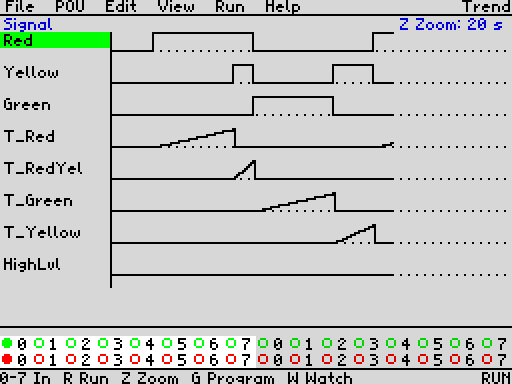
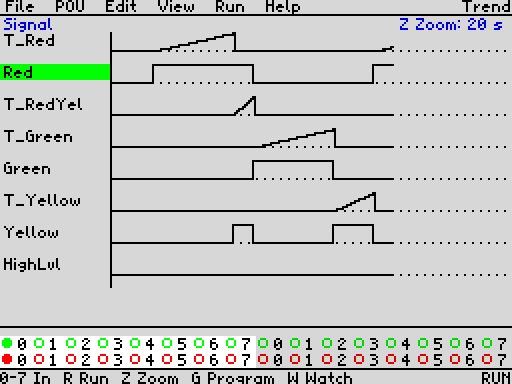
Demo watch list: each traffic light timer followed by its light
Claude-Session: https://claude.ai/code/session_01VKWfWeHqdVXUCm7FCj2M63

diff --git a/tools/docshots.py b/tools/docshots.py
@@ -42,7 +42,7 @@ SHOTS = [
     ("sim_il", IL + RUN + "k:0 w150"),
     ("sim_ld", LD + RUN + "k:4 w60"),
     ("sim_fbd", FBD + RUN + "k:B w5 k:0 w5 k:2 w60"),
-    ("sim_watch", FBD + RUN + "k:B w5 k:0 w5 k:2 w30 k:W w40 " + D + D + "k:F w40"),
+    ("sim_watch", FBD + RUN + "k:B w5 k:0 w5 k:2 w30 k:W w40 " + D * 4 + "k:F w40"),
     ("sim_trend", IL + "k:CS+SPACE w5 k:V w5 k:S w40 " + RUN + "k:G w20 k:0 w600"),
     ("xref", IL + D + "k:SS+X w60"),
     ("clip_mark", IL + D * 2 + "k:SS+A w10 " + D * 2 + "w10"),

diff --git a/docs/MANUAL.md b/docs/MANUAL.md
@@ -540,8 +540,8 @@ inputs and outputs:
 | DEMO_LD | pump with self-holding, fan run-on (TOF), alert memory (P / N contacts, set / reset), blinking lamp (2 x TP) | `4`-`7` | Q0.4-Q0.6 |
 | DEMO_FBD | inlet valve with nested gates and a 2 s run-on, overflow horn (RT, SR), service counter (CTU, after 3 fills) | byte 1: `B`, then `0`-`5` | Q1.0-Q1.2 |
 
-A symbol table names all of them. The watch list contains the traffic light (Red, Yellow, Green and the ET of its four timers, shown first
-on the trend page), HighLvl, Valve, Horn, TValve.ET and Fills.CV.
+A symbol table names all of them. The watch list contains the traffic light (the ET of each of its four timers followed by its light,
+shown first on the trend page), HighLvl, Valve, Horn, TValve.ET and Fills.CV.
 
 ## 14. Reference
 
